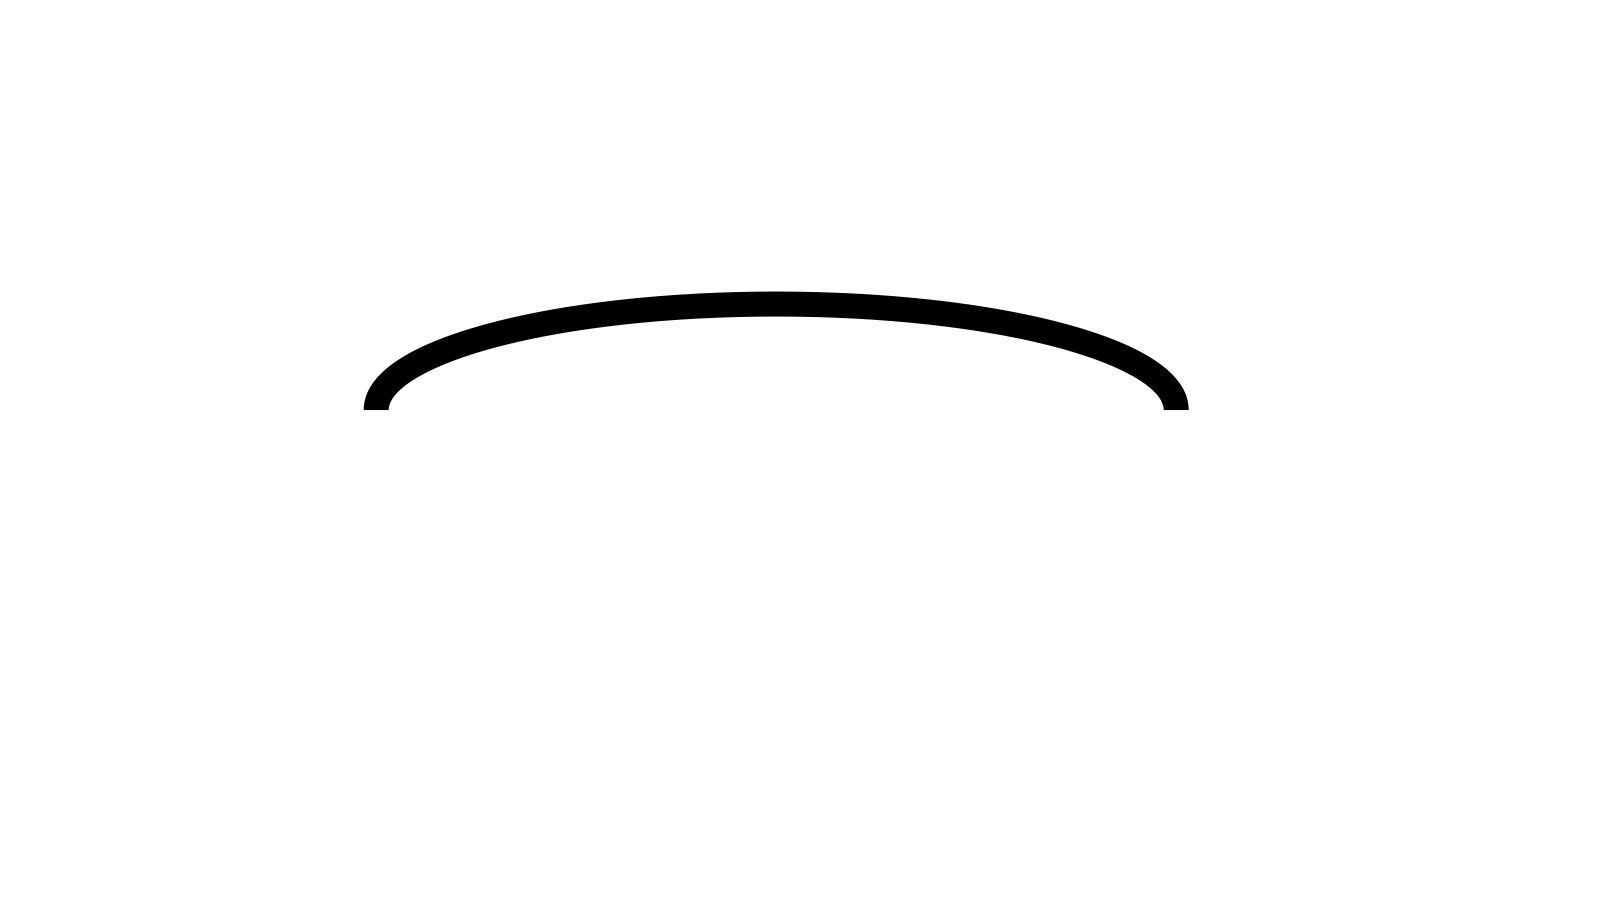
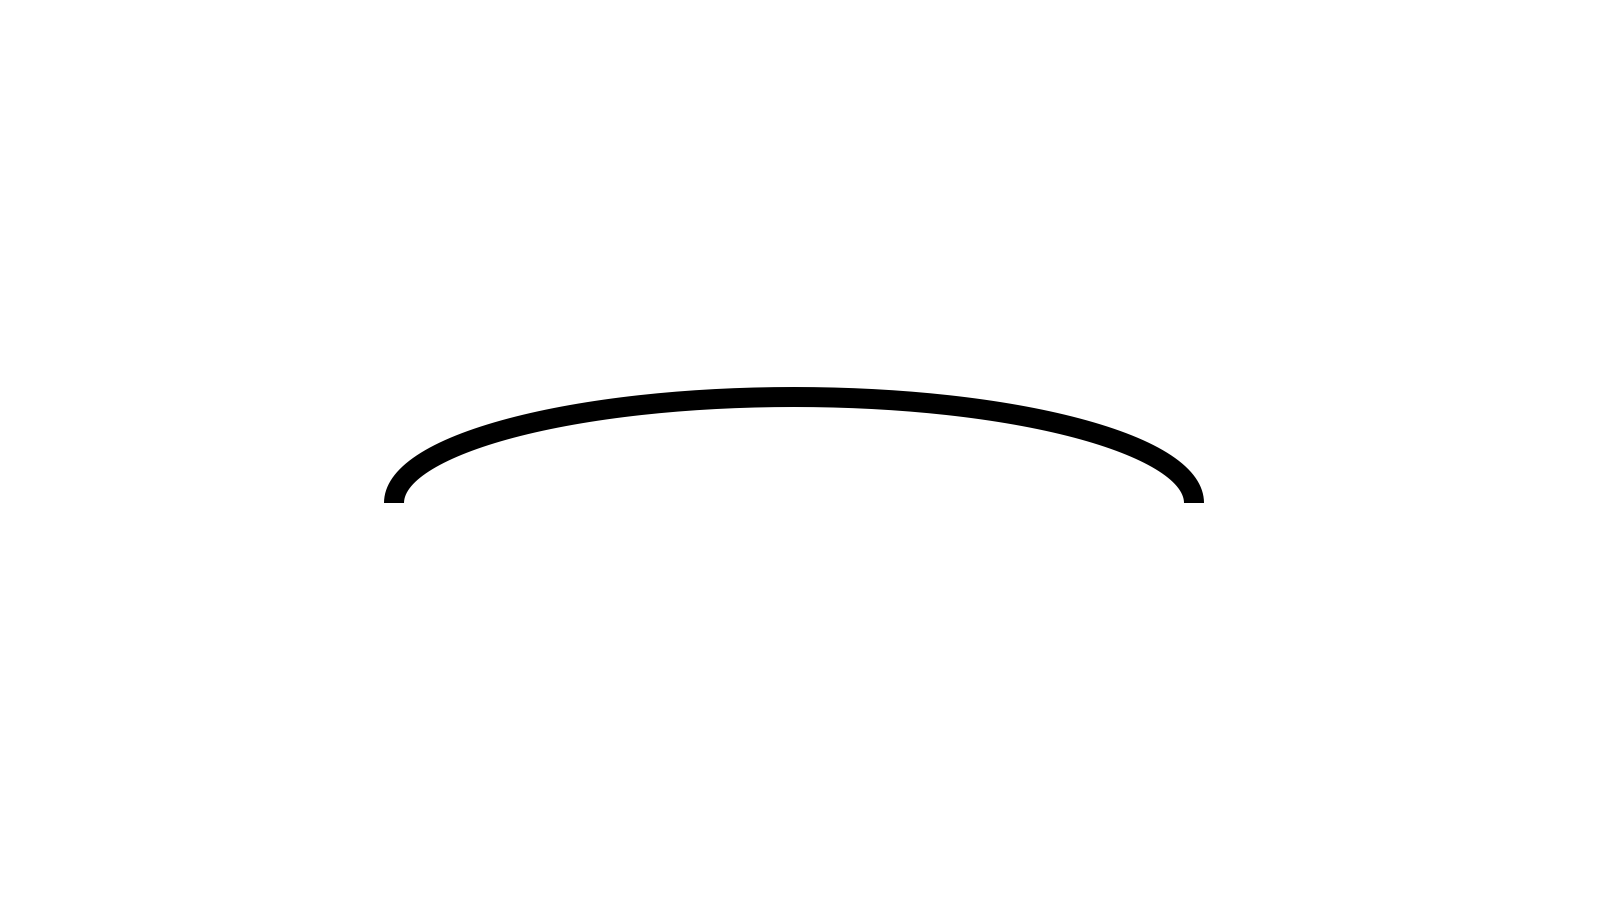
I assign images only once through a dedicated method

Changed region(s): [[0.2188, 0.3111, 0.75, 0.4667], [0.2188, 0.4044, 0.75, 0.56]]

diff --git a/src/main/java/game/view/javafx/JavaFxDrawings.java b/src/main/java/game/view/javafx/JavaFxDrawings.java
@@ -21,15 +21,22 @@ import javafx.scene.text.TextAlignment;
  * Implementation of Drawings for JavaFX.
  */
 public class JavaFxDrawings implements Drawings {
+    private static final int CIRCUMSCRIBED_SQUARE_SIDE = 300;
+
     private final int coefficient;
-    // coordinates (related to the Jframe) of the upper left corner of the play
-    // field
+    /* coordinates (related to the Jframe) of  */
+    /* the upper left corner of the play field */
     private final Point2D startingPoint;
-
-    // heigh of the play field (to scale the size of the objects inside of it)
+    /* heigh of the play field (to scale     */
+    /* the size of the objects inside of it) */
     private final double dimention;
-
     private final GraphicsContext gc;
+    private Image moleImage;
+    private Image bombImage;
+    private Image hitMoleImage;
+    private Image hitBombImage;
+    private Image holeLowerPartImage;
+    private Image holeUpperPartImage;
 
     /**
      * Constructor for the class.
@@ -39,14 +46,16 @@ public class JavaFxDrawings implements Drawings {
      * @param dimention     dimention of the hight of the minigame area.
      * @param coefficient   the height in points of the field that the view shall
      *                      display.
+     * @throws FileNotFoundException
      */
     public JavaFxDrawings(final Canvas canvas, final Point2D startingPoint, final double dimention,
-            final int coefficient) {
+            final int coefficient) throws FileNotFoundException {
         this.coefficient = coefficient;
         this.gc = canvas.getGraphicsContext2D();
         gc.setLineWidth(3.0);
         this.startingPoint = startingPoint;
         this.dimention = dimention;
+        initializeImages();
     }
 
     /**
@@ -152,16 +161,12 @@ public class JavaFxDrawings implements Drawings {
      */
     @Override
     public void drawMole(final GameObject object, final Boolean beenHit) {
-        try {
-            final Image mole;
-            if (beenHit) {
-                mole = new Image(new FileInputStream("src/main/resources/hit_mole.png"));
-            } else {
-                mole = new Image(new FileInputStream("src/main/resources/mole.png"));
-            }
-            gc.drawImage(mole, object.getCoor().getX(), object.getCoor().getY());
-        } catch (FileNotFoundException e) {
-            return;
+        if (beenHit) {
+            gc.drawImage(hitMoleImage, object.getCoor().getX() * dimention / coefficient,
+                                       object.getCoor().getY() * dimention / coefficient);
+        } else {
+            gc.drawImage(moleImage, object.getCoor().getX() * dimention / coefficient,
+                                    object.getCoor().getY() * dimention / coefficient);       
         }
     }
 
@@ -170,16 +175,12 @@ public class JavaFxDrawings implements Drawings {
      */
     @Override
     public void drawWamBomb(final GameObject object, final Boolean beenHit) {
-        try {
-            final Image bomb;
-            if (beenHit) {
-                bomb = new Image(new FileInputStream("src/main/resources/boom.png"));
-            } else {
-                bomb = new Image(new FileInputStream("src/main/resources/bomb.png"));
-            }
-            gc.drawImage(bomb, object.getCoor().getX(), object.getCoor().getY());
-        } catch (FileNotFoundException e) {
-            return;
+        if (beenHit) {
+            gc.drawImage(hitBombImage, object.getCoor().getX() * dimention / coefficient,
+                                       object.getCoor().getY() * dimention / coefficient);
+        } else {
+            gc.drawImage(bombImage, object.getCoor().getX() * dimention / coefficient, 
+                                    object.getCoor().getY() * dimention / coefficient);
         }
     }
 
@@ -188,12 +189,8 @@ public class JavaFxDrawings implements Drawings {
      */
     @Override
     public void drawHoleUpperPart(final GameObject object) {
-        try {
-            final Image holeUpperPart = new Image(new FileInputStream("src/main/resources/upper_part_hole.png"));
-            gc.drawImage(holeUpperPart, object.getCoor().getX(), object.getCoor().getY());
-        } catch (FileNotFoundException e) {
-            return;
-        }
+        gc.drawImage(holeUpperPartImage, object.getCoor().getX() * dimention / coefficient, 
+                                         object.getCoor().getY() * dimention / coefficient);
     }
 
     /**
@@ -201,12 +198,8 @@ public class JavaFxDrawings implements Drawings {
      */
     @Override
     public void drawHoleLowerPart(final GameObject object) {
-        try {
-            final Image holeLowerPart = new Image(new FileInputStream("src/main/resources/lower_part_hole.png"));
-            gc.drawImage(holeLowerPart, object.getCoor().getX(), object.getCoor().getY());
-        } catch (FileNotFoundException e) {
-            return;
-        }
+        gc.drawImage(holeLowerPartImage, object.getCoor().getX() * dimention / coefficient, 
+                                         object.getCoor().getY() * dimention / coefficient);
     }
 
     /**
@@ -219,5 +212,45 @@ public class JavaFxDrawings implements Drawings {
         return Color.color(color.getRed() / (double) ColorRGB.COLOR_RANGE_TOP,
                 color.getGreen() / (double) ColorRGB.COLOR_RANGE_TOP,
                 color.getBlue() / (double) ColorRGB.COLOR_RANGE_TOP);
+    }
+
+    /**
+     * Being that re-assigning images to Image type variables 
+     * each time would be too expensive in terms of performance, 
+     * I initialize them once and for all in this method.
+     * 
+     * @throws FileNotFoundException if one of the files is not found
+     */
+    private void initializeImages() throws FileNotFoundException {
+        this.moleImage = new Image(new FileInputStream("src/main/resources/mole.png"),
+                                CIRCUMSCRIBED_SQUARE_SIDE * dimention / coefficient,
+                                CIRCUMSCRIBED_SQUARE_SIDE * dimention / coefficient,
+                                true,
+                                false);
+        this.bombImage = new Image(new FileInputStream("src/main/resources/bomb.png"),
+                                CIRCUMSCRIBED_SQUARE_SIDE * dimention / coefficient,
+                                CIRCUMSCRIBED_SQUARE_SIDE * dimention / coefficient,
+                                true,
+                                false);
+        this.hitMoleImage = new Image(new FileInputStream("src/main/resources/hit_mole.png"),
+                                CIRCUMSCRIBED_SQUARE_SIDE * dimention / coefficient,
+                                CIRCUMSCRIBED_SQUARE_SIDE * dimention / coefficient,
+                                true,
+                                false);
+        this.hitBombImage = new Image(new FileInputStream("src/main/resources/boom.png"),
+                                CIRCUMSCRIBED_SQUARE_SIDE * dimention / coefficient,
+                                CIRCUMSCRIBED_SQUARE_SIDE * dimention / coefficient,
+                                true,
+                                false);
+        this.holeLowerPartImage = new Image(new FileInputStream("src/main/resources/hole_lower_part.png"),
+                                CIRCUMSCRIBED_SQUARE_SIDE * dimention / coefficient,
+                                CIRCUMSCRIBED_SQUARE_SIDE * dimention / coefficient,
+                                true,
+                                false);
+        this.holeUpperPartImage = new Image(new FileInputStream("src/main/resources/hole_upper_part.png"),
+                                CIRCUMSCRIBED_SQUARE_SIDE * dimention / coefficient,
+                                CIRCUMSCRIBED_SQUARE_SIDE * dimention / coefficient,
+                                true,
+                                false);
     }
 }
